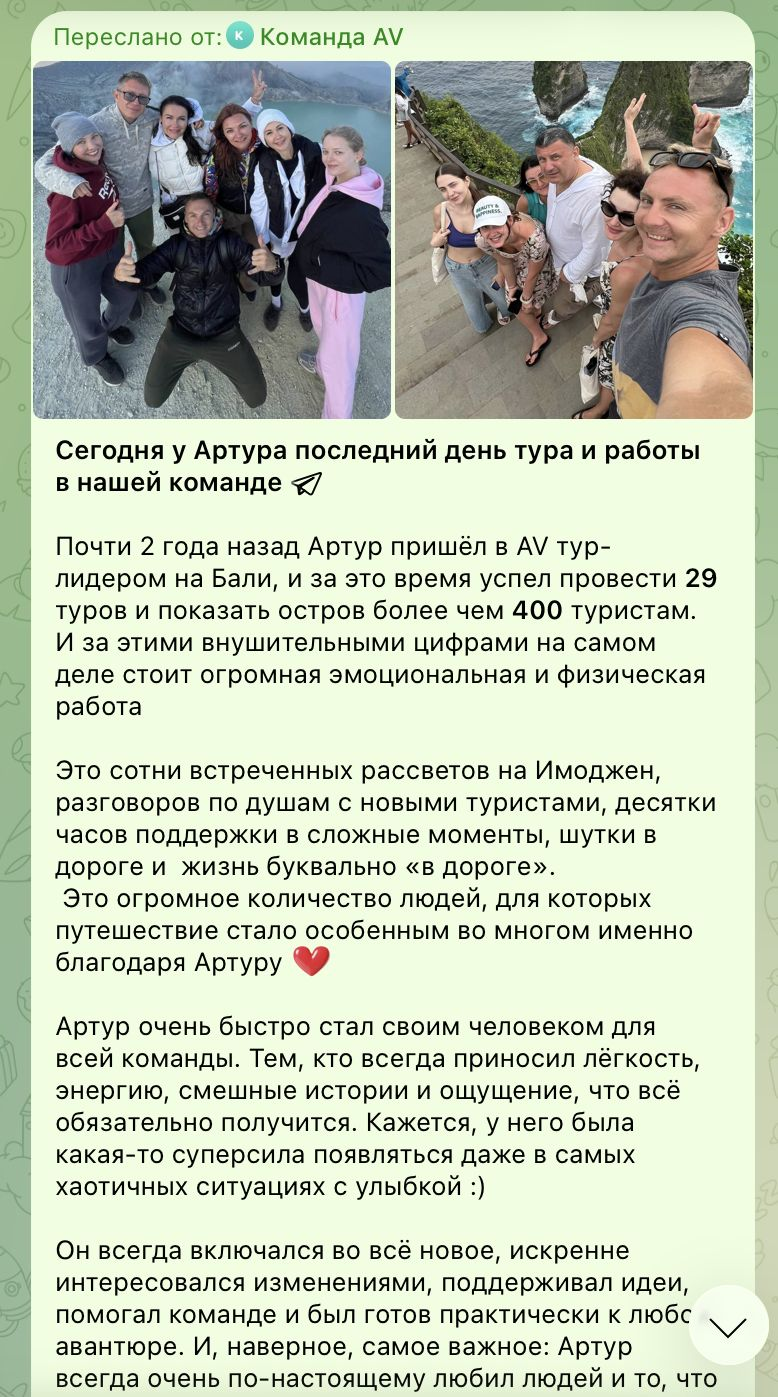
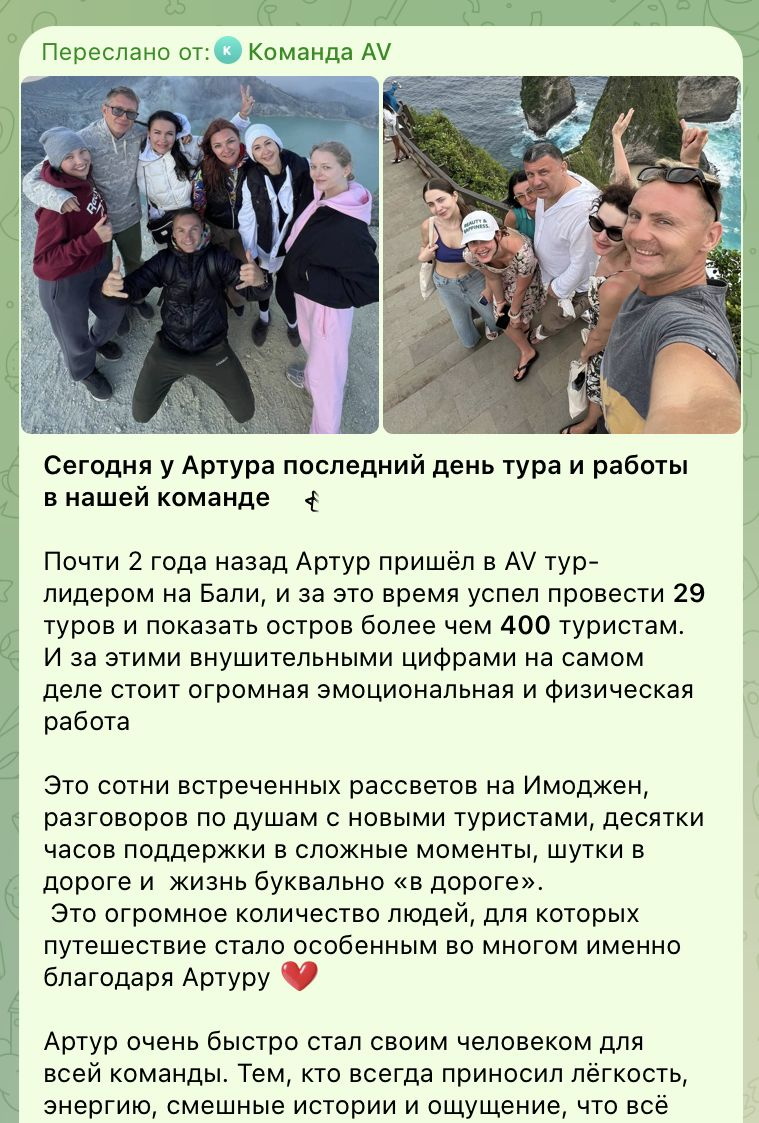
Action Vacation: новые скриншоты прощального поста, в два столбца и вдвое меньше

diff --git a/exp/action-vacation.html b/exp/action-vacation.html
@@ -21,8 +21,10 @@
 <p>«Артур очень быстро стал своим человеком для всей команды. Тем, кто всегда приносил лёгкость, энергию, смешные истории и ощущение, что всё обязательно получится.»</p>
 <p>«Спасибо тебе за все эти годы рядом. За вклад, за заботу о людях, за атмосферу на звонках и в чатах, за поддержку команды и за огромное-огромное количество счастливых туристов.»</p>
 </blockquote>
+<div class="pair">
 <p><img alt="" src="../img/action-vacation/02.jpg" /></p>
 <p><img alt="" src="../img/action-vacation/03.jpg" /></p>
+</div>
 <h2>Цифры и масштаб ответственности</h2>
 <ul>
 <li><strong>29 туров проведено</strong> (по данным компании)</li>

diff --git a/style.css b/style.css
@@ -27,6 +27,9 @@ hr{border:0;border-top:1px solid var(--line);margin:32px 0}
 .card .t{padding:12px 16px 14px}
 .card b{display:block;font-size:16px;line-height:1.35}
 .card span{color:var(--muted);font-size:14px}
+.pair{display:grid;grid-template-columns:1fr 1fr;gap:16px;max-width:640px;margin:16px auto;align-items:start}
+.pair p{margin:0}.pair img{margin:0;border:1px solid var(--line)}
+@media (max-width:600px){.pair{grid-template-columns:1fr;max-width:340px}}
 .btn-big{display:block;text-align:center;background:var(--acc);color:#fff;padding:16px;border-radius:12px;text-decoration:none;font-weight:700;font-size:18px;margin:48px 0 0}
 @media (prefers-color-scheme:dark){.btn-big{color:#062421}}
 .nums{display:grid;grid-template-columns:repeat(auto-fit,minmax(min(220px,100%),1fr));gap:12px}
